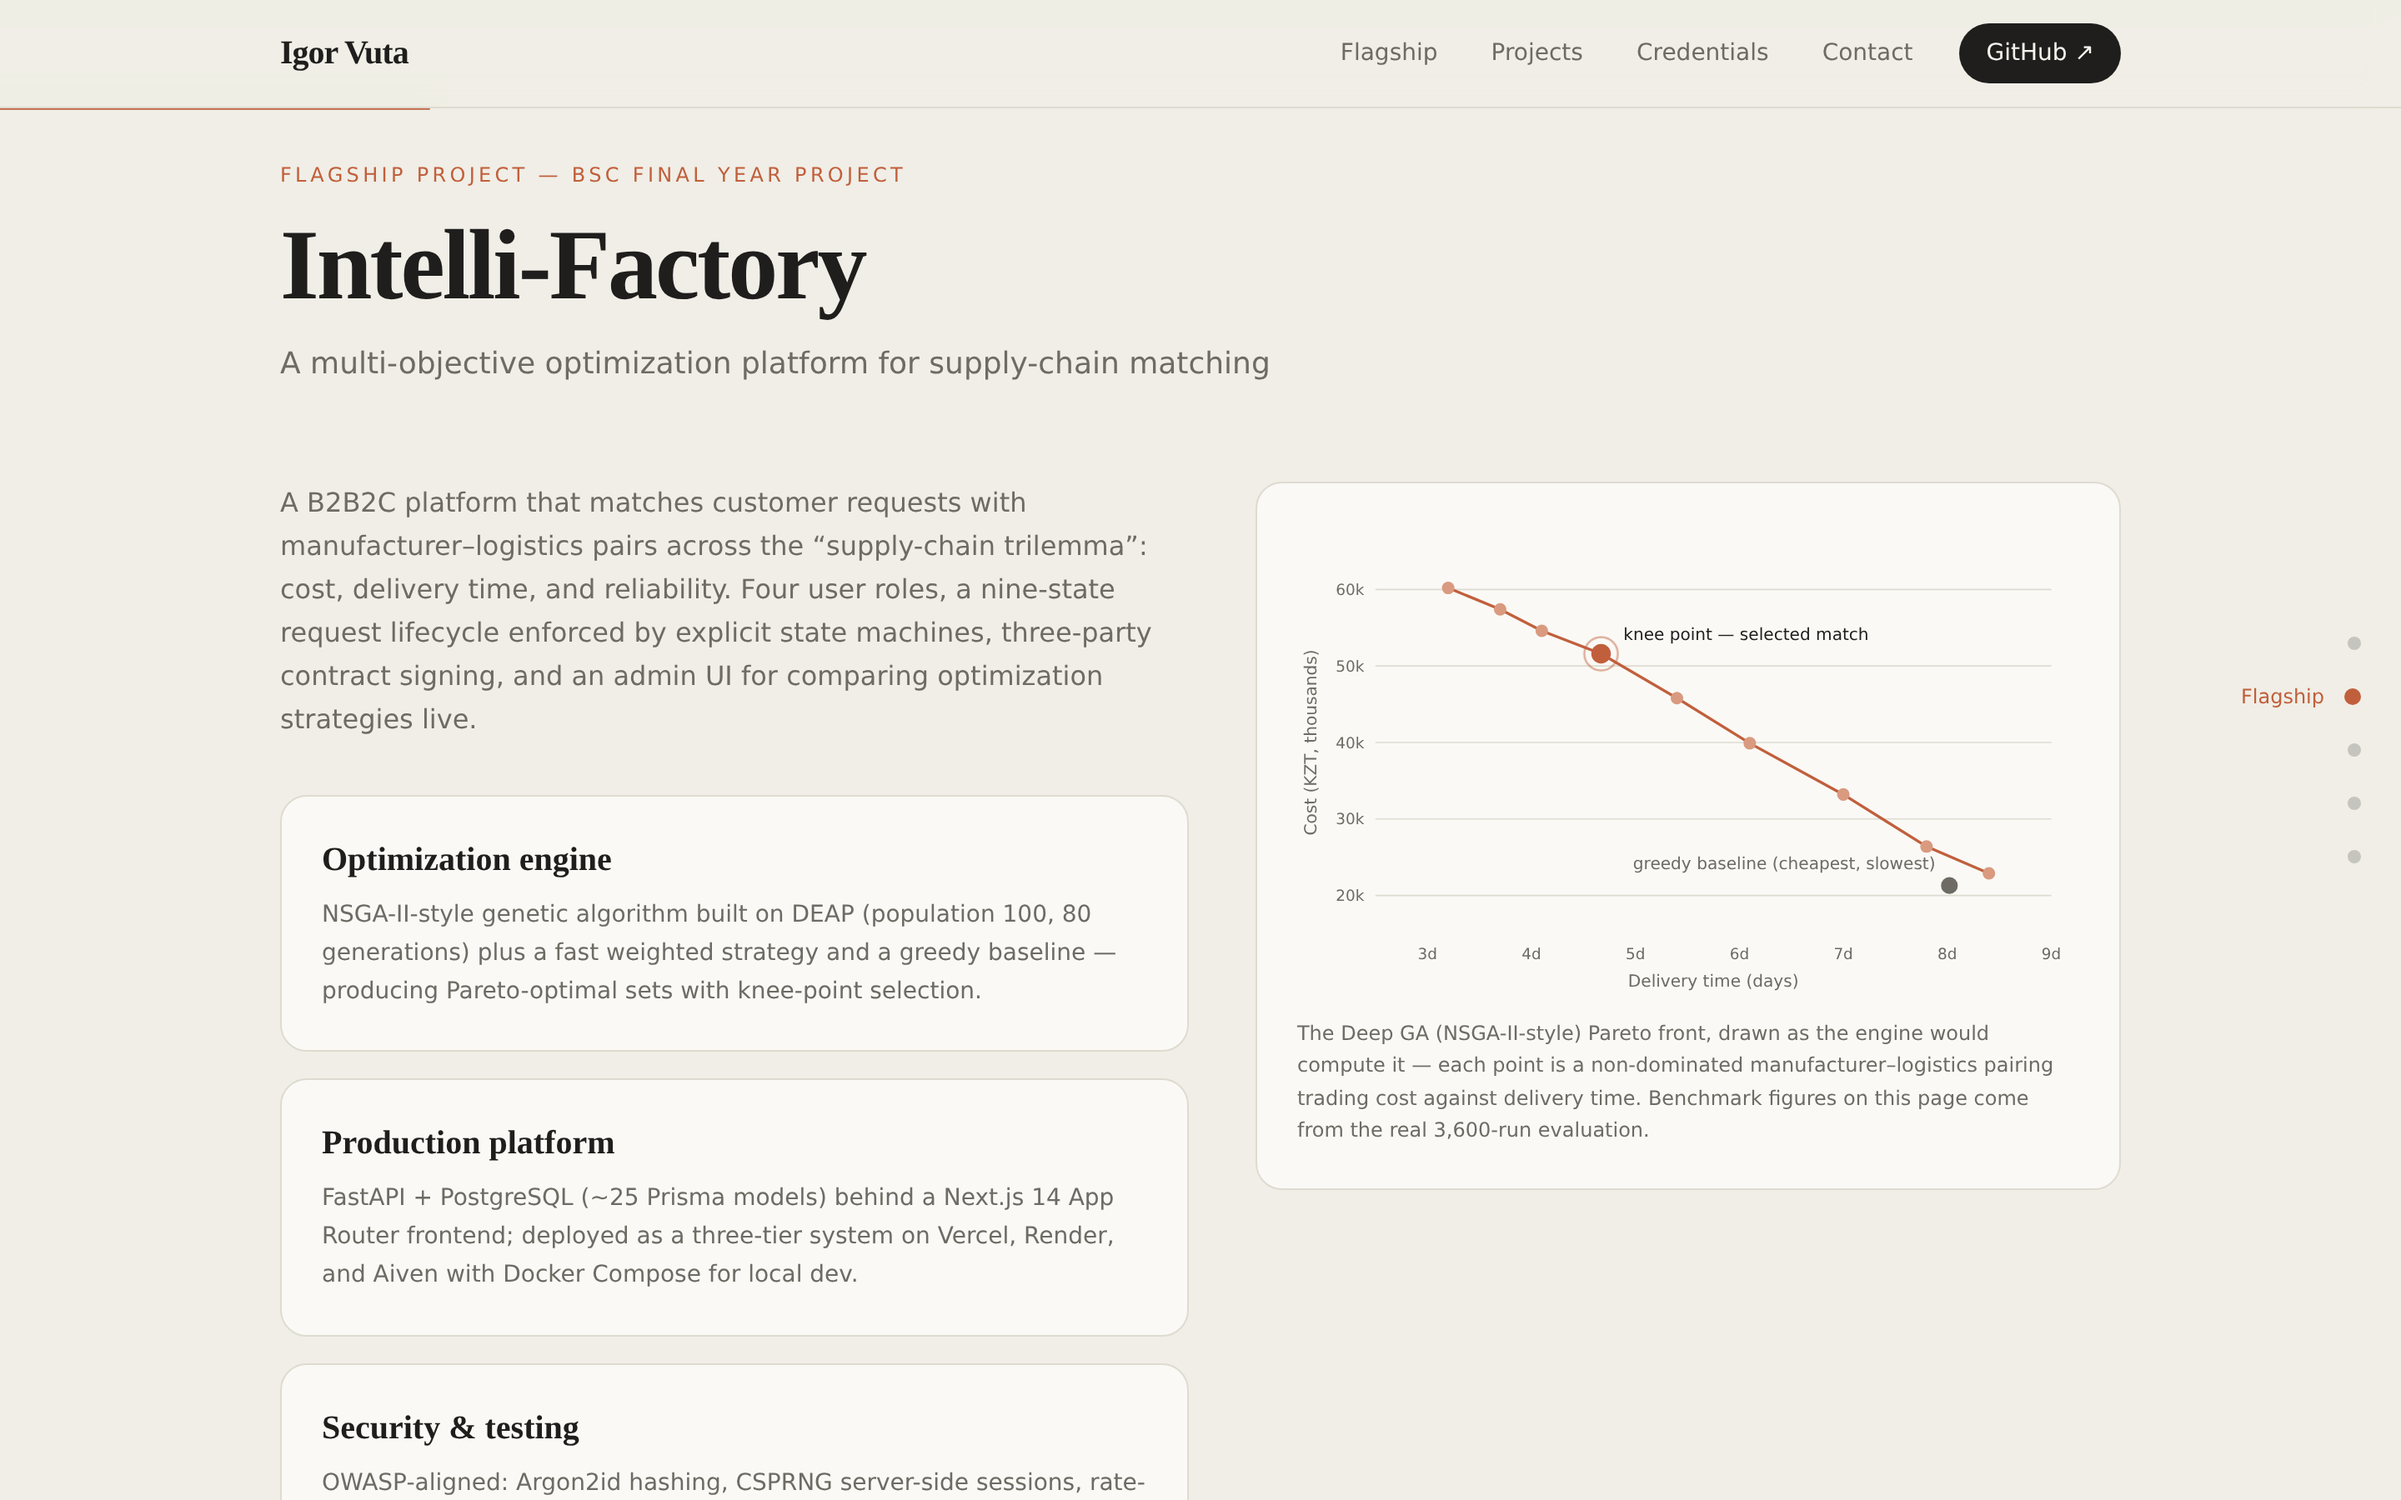
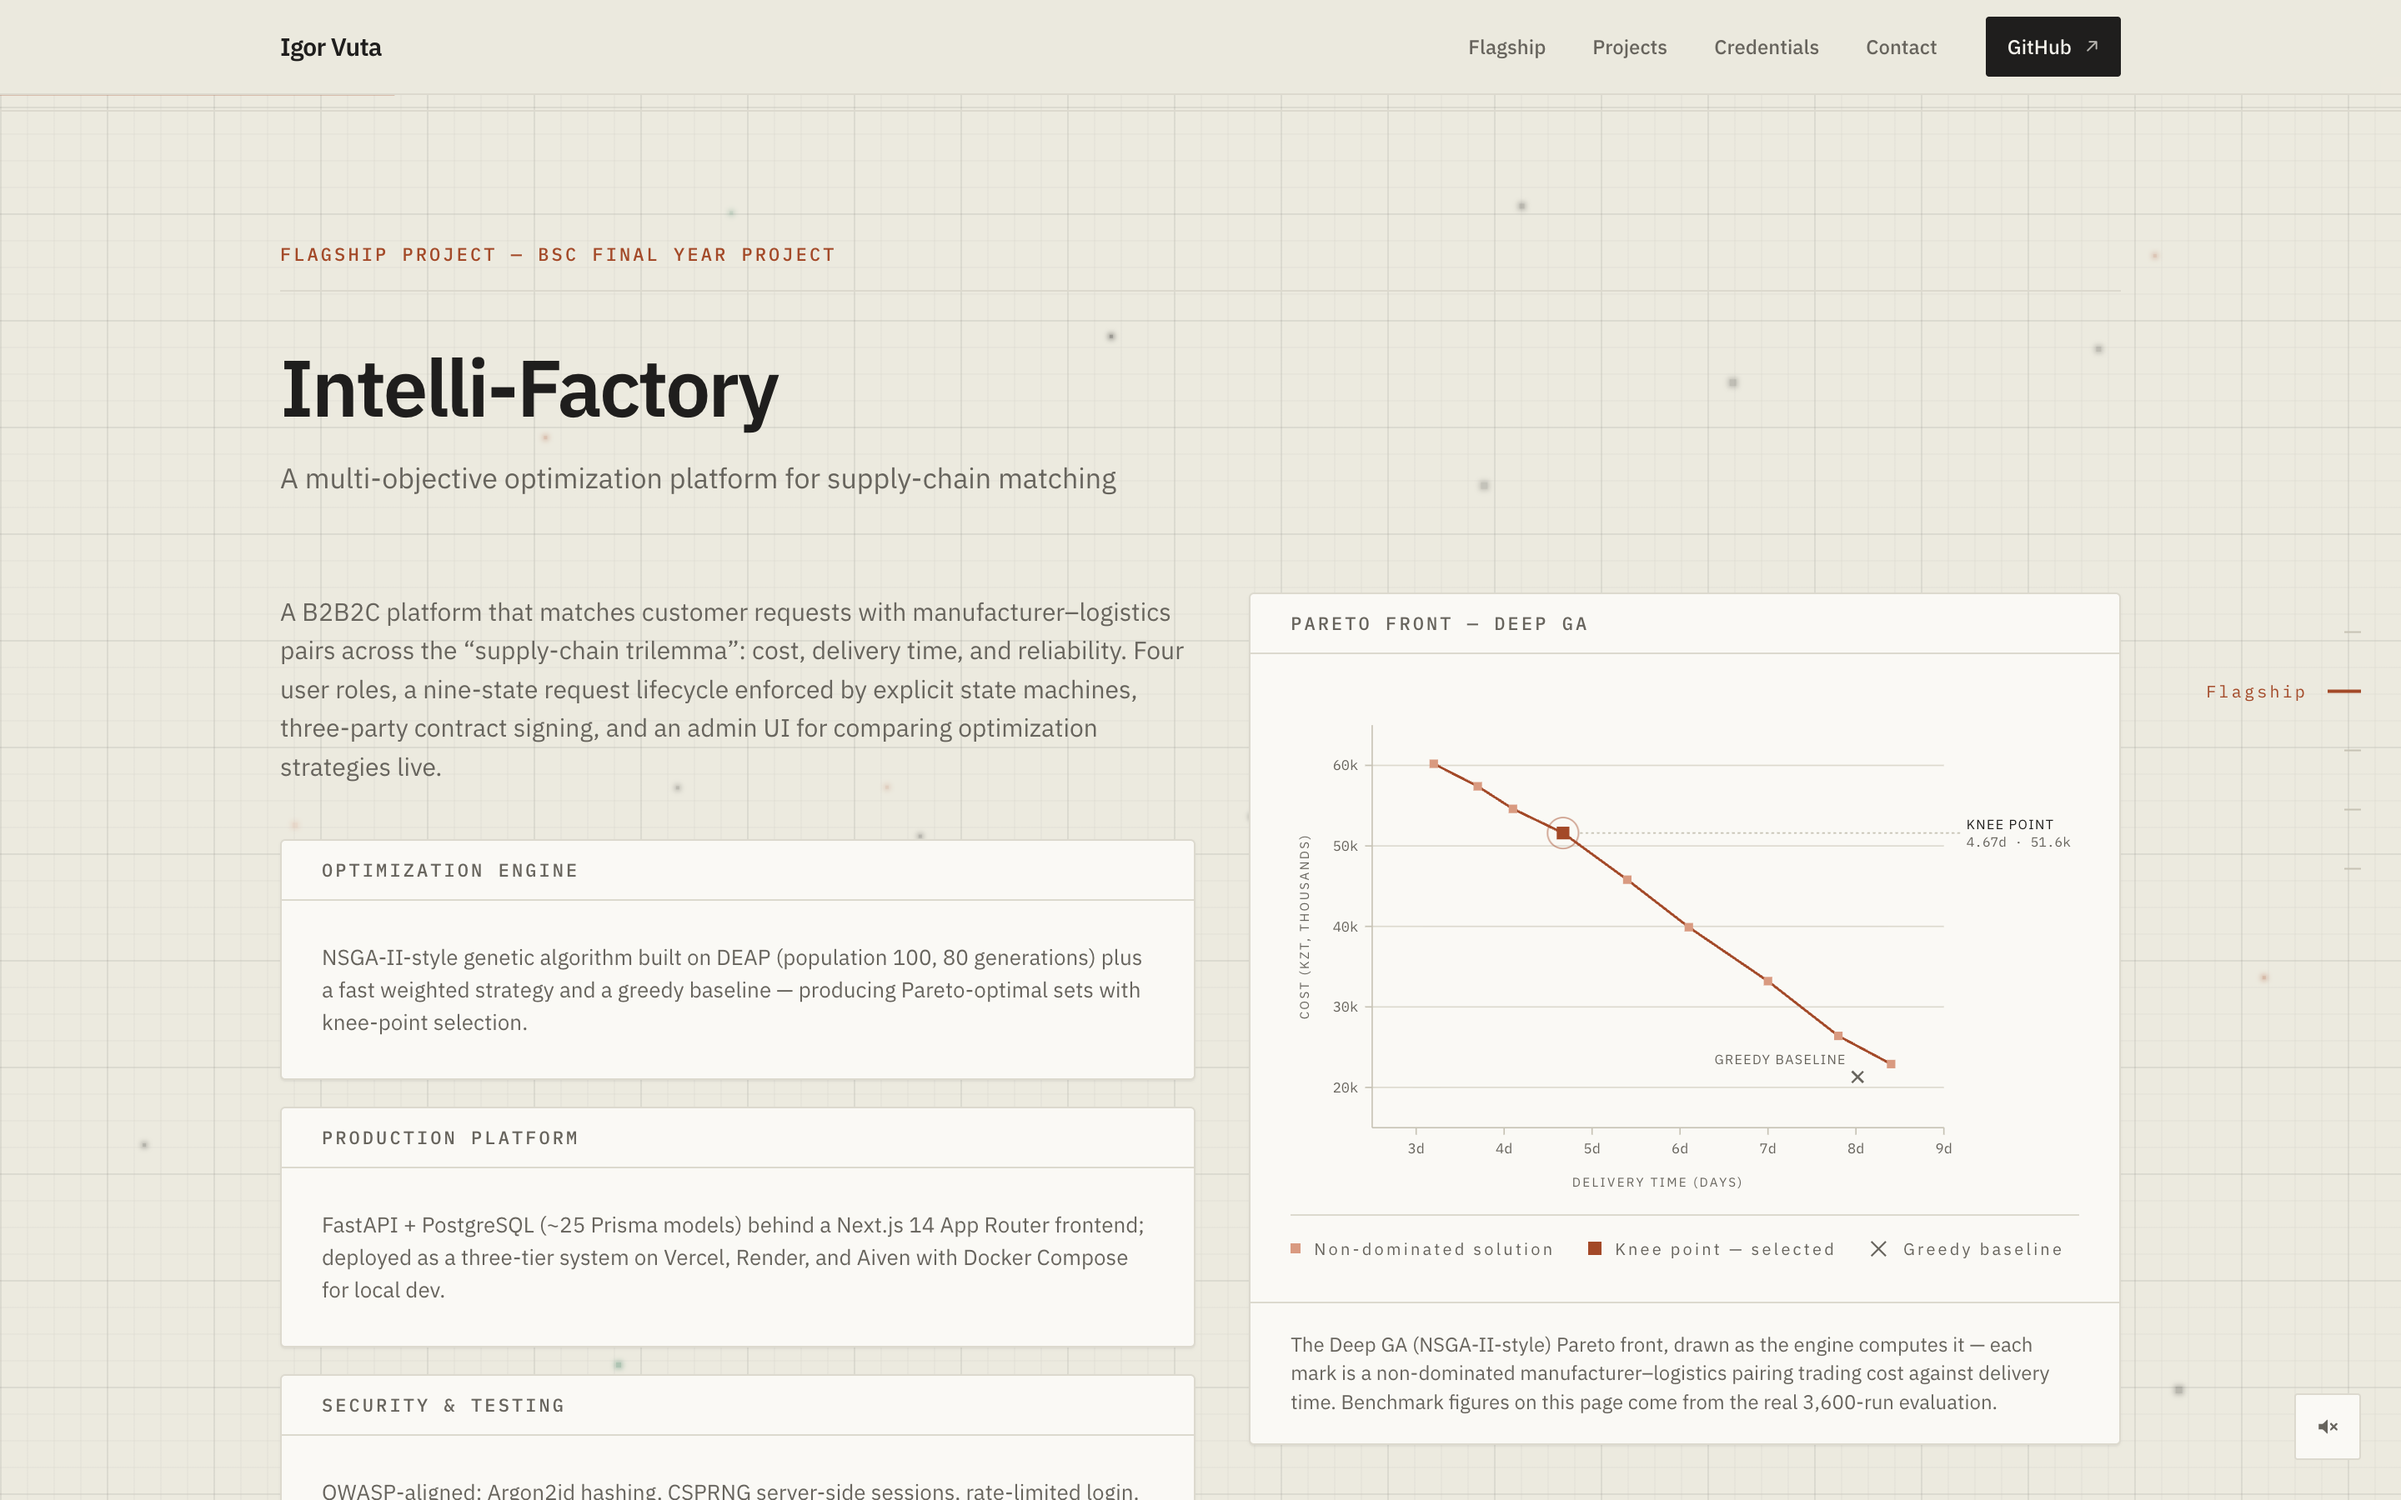
docs: rewrite the README section by section, reshoot the screenshots
The two images in docs/ were from July and showed a site that no longer
exists — serif display type on oat, breathing blobs, a hand-drawn underline.
None of that survived the blueprint redesign.

The README now walks the page in the order a visitor meets it, under the
names the sections carry on screen: Boot, Intro, Flagship, Standard of
evidence, Selected work, Credentials, Contact. Each one says what is in it
and the one thing worth knowing about how it behaves, instead of the
separate essay on behaviours that sat at the end and repeated all of it.

Eight screenshots, captured at 1440x900 at 2x, one per section.

diff --git a/README.md b/README.md
@@ -2,60 +2,118 @@
 
 # igor-vuta.github.io/portfolio
 
-**Personal portfolio — an editorial, animation-driven one-pager built with zero UI libraries.**
+**My portfolio. One page, statically exported, no UI or animation libraries.**
 
-[![Live site](https://img.shields.io/badge/%F0%9F%8C%90%20Live-igor--vuta.github.io%2Fportfolio-C15F3C?style=for-the-badge)](https://igor-vuta.github.io/portfolio/)
+[![Live site](https://img.shields.io/badge/Live-igor--vuta.github.io%2Fportfolio-C15F3C?style=for-the-badge)](https://igor-vuta.github.io/portfolio/)
 
 <img src="https://img.shields.io/badge/Next.js-15-000000?logo=nextdotjs&logoColor=white" />
 <img src="https://img.shields.io/badge/React-19-61DAFB?logo=react&logoColor=black" />
 <img src="https://img.shields.io/badge/TypeScript-strict-3178C6?logo=typescript&logoColor=white" />
 <img src="https://img.shields.io/badge/Tailwind%20CSS-v4-06B6D4?logo=tailwindcss&logoColor=white" />
-<img src="https://img.shields.io/badge/animations-hand--rolled%2C%200%20libs-C15F3C" />
-
-<br /><br />
-
-<img src="docs/screenshots/portfolio-hero.png" alt="Hero — serif display type on an oat background" width="85%" />
+<img src="https://img.shields.io/badge/dependencies-3-C15F3C" />
 
 </div>
 
 ---
 
-## Design
-
-Editorial light theme: oat background, high-contrast serif display type, a single clay accent, and a dark charcoal contact block. The design language borrows from modern research-lab sites — restraint over decoration.
-
-## ✨ Signature animations (all hand-rolled, no libraries)
-
-- 📈 **Self-drawing Pareto chart** — the SVG front line draws itself when scrolled into view, points fade in sequentially, the knee-point pulses
-- 🔢 **Count-up metrics** — benchmark numbers animate from zero on first view, preserving prefixes/suffixes and formatting
-- ✍ **Hand-drawn underline** — the hero headline's accent stroke draws in on load
-- 🫧 **Breathing blobs** — slow, organic background motion in the hero
-- 🧭 **Section rail** — dot navigation that tracks the active section, with hover labels
-- 📊 **Reading progress bar** — a hairline clay indicator under the nav
-- 🟢 **Live badge** — pulsing indicator on the flagship demo button
-- 📋 **Copy-email button** — one-tap clipboard with inline confirmation
-
-Every animation respects `prefers-reduced-motion`.
+## Boot
 
 <div align="center">
-<img src="docs/screenshots/portfolio-flagship.png" alt="Flagship section — pillars and self-drawing Pareto chart" width="85%" />
+<img src="docs/screenshots/portfolio-boot.png" alt="Boot terminal — a deploy log printing compile, bundle, export, upload and verify, each marked ok, then ready" width="88%" />
 </div>
 
-## 🛠 Stack & architecture
+The first visit in a session opens on a terminal that deploys the page you are about to read. The command types itself, five stages report in over about four seconds, and the page arrives behind it at 6.2s. Any key, tap, wheel or touch skips the whole thing, and the screen says so.
+
+The figures printed are real properties of this build — Next 15, 109 kB first load, static export, GitHub Pages. A boot screen that lied about the thing it is booting would be a strange choice here.
+
+It is decoration, so it runs under conditions:
+
+1. It cannot withhold content. The markup is complete before the script runs, and every boot rule hangs off a class only that script adds. Thus a thrown exception, a blocked bundle, or scripting switched off all land on the finished page instead of a blank one.
+2. It ends. A 6.4-second cap clears it even if a stage never fires, and the cap is a timeout set in the same breath as the class, not a completion callback from an animation that may never arrive.
+3. It plays once per session, tracked in `sessionStorage`, and not at all under `prefers-reduced-motion`.
+
+## Intro
+
+<div align="center">
+<img src="docs/screenshots/portfolio-hero.png" alt="Intro section — the headline “Software that ships — with numbers to prove it.” over a faint blueprint grid, above a spec panel of role, location, degree, stack and availability" width="88%" />
+</div>
+
+Name and role, the headline, three sentences of summary, and the three links a recruiter actually opens: the flagship project, GitHub, LinkedIn.
+
+Under it a spec panel — role, location, degree, stack, availability — because those are the five facts every reader checks first and none of them should need scrolling to find. The whole page is styled this way: paper ground, a measuring grid, one clay accent, IBM Plex for the prose and the readouts both. Closer to a spec sheet than to a landing page.
+
+## Flagship
+
+<div align="center">
+<img src="docs/screenshots/portfolio-flagship.png" alt="Flagship section — Intelli-Factory description, three pillar panels, and a Pareto front chart with the knee point marked" width="88%" />
+</div>
+
+Intelli-Factory, my final-year project. It matches supply-chain requests against manufacturer–logistics pairs across three objectives that pull against each other — cost, delivery time, reliability — so there is no single best answer, only a Pareto front and a decision about what you are optimizing for. Three pillars cover the optimization engine, the production platform and the security work.
+
+The chart is real data: the non-dominated set from the Deep GA run, cost against delivery time, with the knee point the engine selects. It draws itself when you arrive at it, since a line that appears fully formed says nothing about how it was arrived at.
+
+<div align="center">
+<img src="docs/screenshots/portfolio-benchmark.png" alt="Verified benchmark — six metric tiles including +17.5% composite fitness and 3,600 evaluations — above the frontend / API / database architecture row" width="88%" />
+</div>
+
+Then the evidence for those claims. Six metrics that count up from zero on first sight, the note saying exactly where they came from — 120 synthetic scenarios × 30 seeds, run on the production engine code — and the three-tier architecture that serves them. The buttons go to the live demo, the Swagger docs and the source, with the free-tier cold start stated rather than left as a surprise.
+
+## Standard of evidence
+
+<div align="center">
+<img src="docs/screenshots/portfolio-manifesto.png" alt="Standard of evidence — “Not promises — measurements.” with a link to benchmark_evaluation.py" width="88%" />
+</div>
+
+One line between the flagship and the projects, and the only band on the page with no panel, no index and no controls. It states where every number came from and links `benchmark_evaluation.py` so you can rerun it yourself.
+
+## Selected work
+
+<div align="center">
+<img src="docs/screenshots/portfolio-projects.png" alt="Projects grid — cards for Drive Pro, Qubly Landing Page, Currency Exchange Bot, Todo Web App, Vue Folder Tree and React Starter Pro" width="88%" />
+</div>
+
+Six shipped projects, each with a live deployment and readable source: a bilingual company site, a Figma-to-spec landing page, a Telegram bot, a full-stack task manager, a Vue tree component and a React starter. Every card carries its stack and both links.
+
+**Live** opens in place rather than in a tab. The links are ordinary `<a href target="_blank">` elements intercepted by delegation and shown in a native `<dialog>`, so focus trapping and Esc-to-close come from the platform, cmd/ctrl/shift/middle clicks still give you a real tab, and with no JS every link is still a link. A site that refuses to be framed renders blank and nothing cross-origin can detect that, hence the permanent **Open ↗** in the panel header.
+
+## Credentials
+
+<div align="center">
+<img src="docs/screenshots/portfolio-credentials.png" alt="Credentials — Papa Gadget experience card, three certification cards with verification links and codes, and the start of the skills matrix" width="88%" />
+</div>
+
+Commercial experience, certifications and skills in one section. Each certificate carries its verification link and code, and the Red Hat one is labelled a certificate of attendance with no online verification, because it is one and pretending otherwise is the kind of thing that gets checked.
+
+## Contact
+
+<div align="center">
+<img src="docs/screenshots/portfolio-contact.png" alt="Skills matrix above the dark contact block — “Let's build something.” with email, copy-address, GitHub and LinkedIn buttons" width="88%" />
+</div>
+
+The page stops being paper and turns dark, so the end reads as an end. Availability, visa status, and four ways to get in touch. The copy-address button falls back to a hidden textarea where the Clipboard API is absent or denied, and if both routes fail it says so and puts the address on screen pre-selected — a button that fails silently is unfinished.
+
+## Stack
 
 - **Next.js 15** (App Router) · **React 19** · **TypeScript** · **Tailwind CSS v4**
-- Static export (`output: "export"`) — no server, deploys anywhere
-- All content lives in **one file**: [`lib/profile.ts`](lib/profile.ts) — links, metrics, projects, certifications
-- First Load JS ≈ 103 kB; fonts loaded client-side with `display=swap`
-- CI/CD: GitHub Actions → GitHub Pages on every push to `main`
+- Static export (`output: "export"`) — no server, no runtime, deploys anywhere
+- **109 kB First Load JS** for `/`, of which 103 kB is shared, measured on the build in this repo
+- Dependencies: `next`, `react`, `react-dom`. Every animation on the page is handwritten.
+- IBM Plex Sans and Mono, self-hosted at build time through `next/font`, Latin subset only, `display: swap`
+- All content is in one file, [`lib/profile.ts`](lib/profile.ts) — identity, metrics, projects, certifications. Changing what the page says never means touching a component.
+- Reduced motion, forced colors, print and no-JS are all real paths, not disabled animations
+- GitHub Actions builds and publishes to Pages on every push to `main`
 
-## 🚀 Run locally
+## Run it
 
 ```bash
 npm install
 npm run dev      # http://localhost:3000/portfolio
 npm run build    # static export to ./out
 ```
+
+## Screenshots
+
+In [`docs/screenshots/`](docs/screenshots), captured at 1440×900 at 2×. They go stale as the page changes, so the [live site](https://igor-vuta.github.io/portfolio/) is the source of truth.
 
 ---
 
